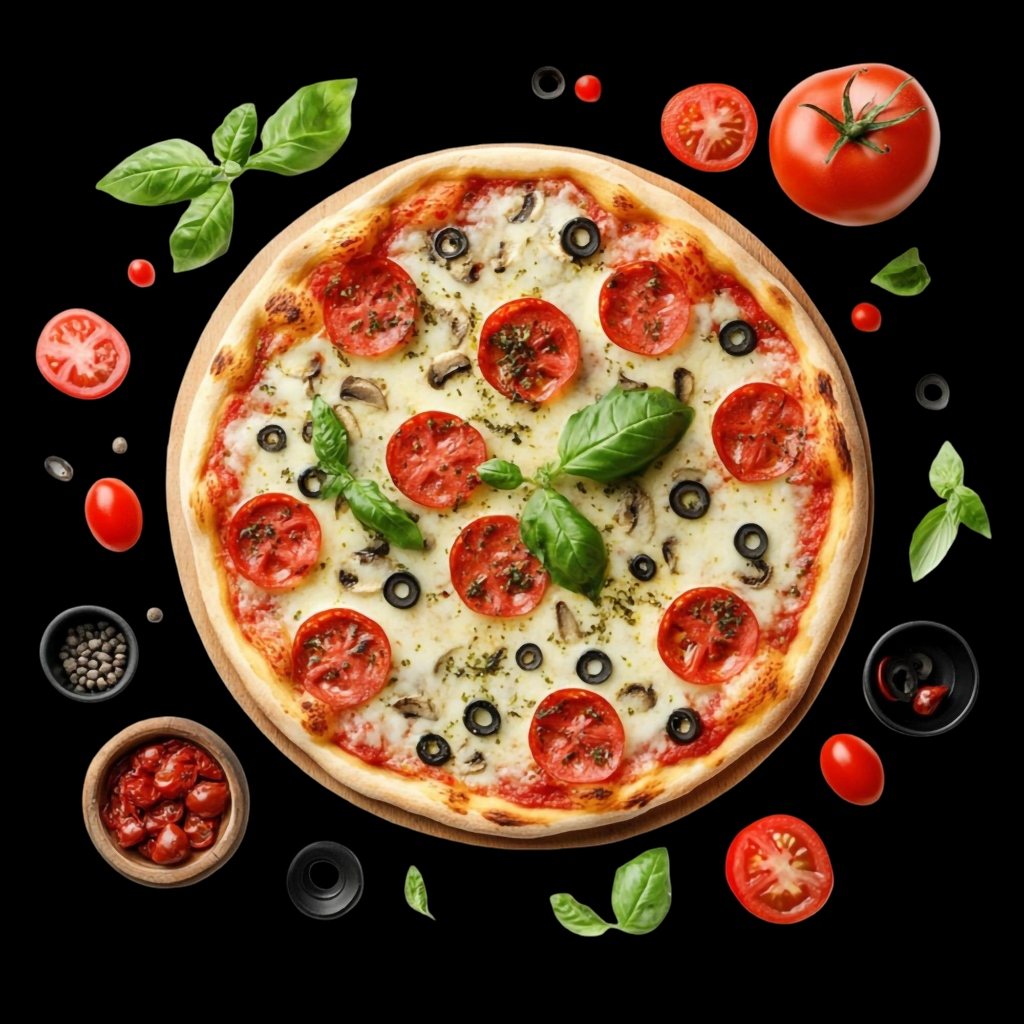
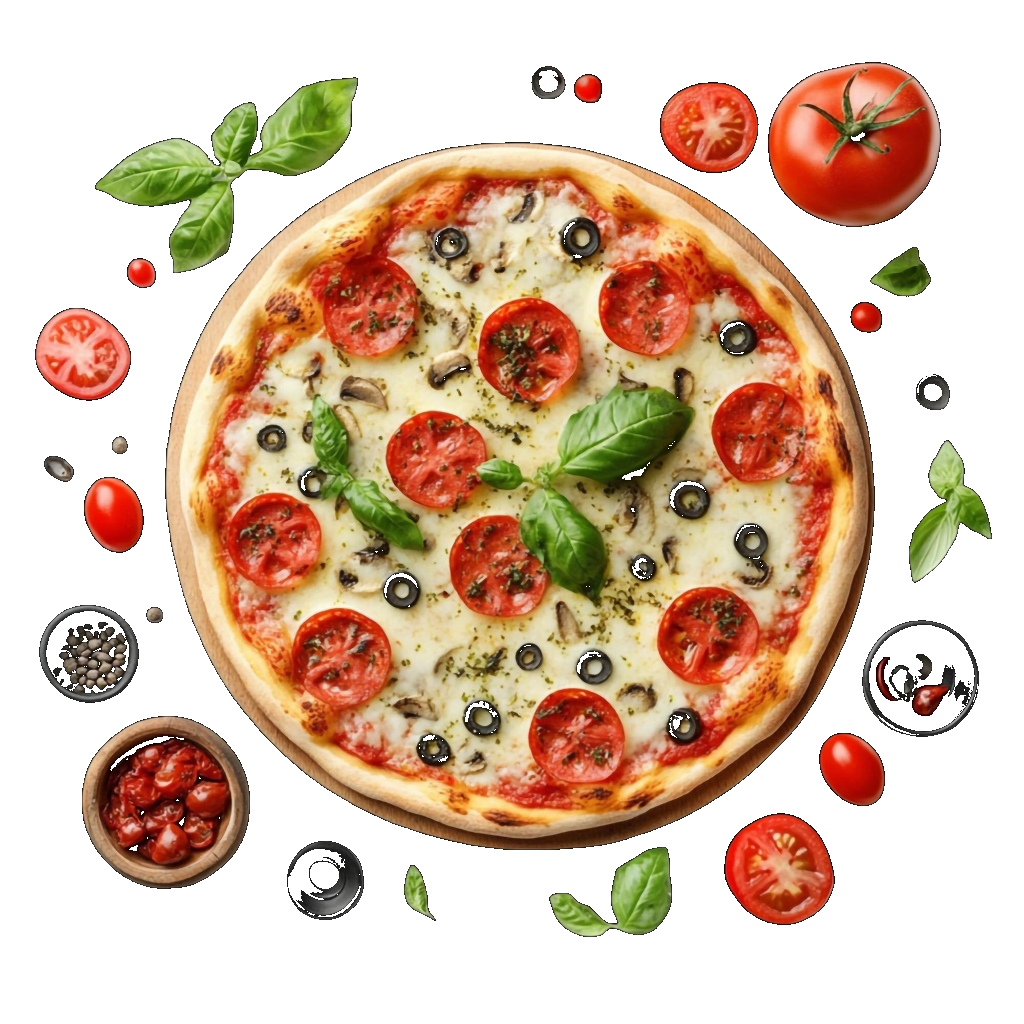
Remove_GoogleReviews_section_completely

diff --git a/src/app/page.tsx b/src/app/page.tsx
@@ -11,7 +11,6 @@ import CustomerFavourites from '@/components/CustomerFavourites';
 import CafeMemories from '@/components/CafeMemories';
 import RestaurantGallery from '@/components/RestaurantGallery';
 import Reservation from '@/components/Reservation';
-import GoogleReviews from '@/components/GoogleReviews';
 import ReputationManager from '@/components/ReputationManager';
 import FAQ from '@/components/FAQ';
 import Contact from '@/components/Contact';
@@ -57,9 +56,6 @@ export default function Home() {
 
         {/* 11. Reservation Form */}
         <Reservation />
-
-        {/* 12. Google Reviews Carousel (NEW) */}
-        <GoogleReviews />
 
         {/* 13. Google Review Reputation Management */}
         <ReputationManager />

diff --git a/src/components/Hero.tsx b/src/components/Hero.tsx
@@ -44,7 +44,7 @@ export default function Hero() {
       <motion.div
         animate={{ rotate: 360 }}
         transition={{ repeat: Infinity, duration: 60, ease: "linear" }}
-        className="absolute top-[8%] right-[-140px] sm:right-[-120px] md:right-[-80px] lg:right-[-20px] xl:right-[4%] w-[240px] h-[240px] sm:w-[320px] sm:h-[320px] md:w-[420px] md:h-[420px] lg:w-[500px] lg:h-[500px] xl:w-[560px] xl:h-[560px] pointer-events-none select-none z-10 mix-blend-screen opacity-85"
+        className="absolute top-[8%] right-[-140px] sm:right-[-120px] md:right-[-80px] lg:right-[-20px] xl:right-[4%] w-[240px] h-[240px] sm:w-[320px] sm:h-[320px] md:w-[420px] md:h-[420px] lg:w-[500px] lg:h-[500px] xl:w-[560px] xl:h-[560px] pointer-events-none select-none z-10 opacity-90"
       >
         <Image
           src="/images/pizza_header.png"